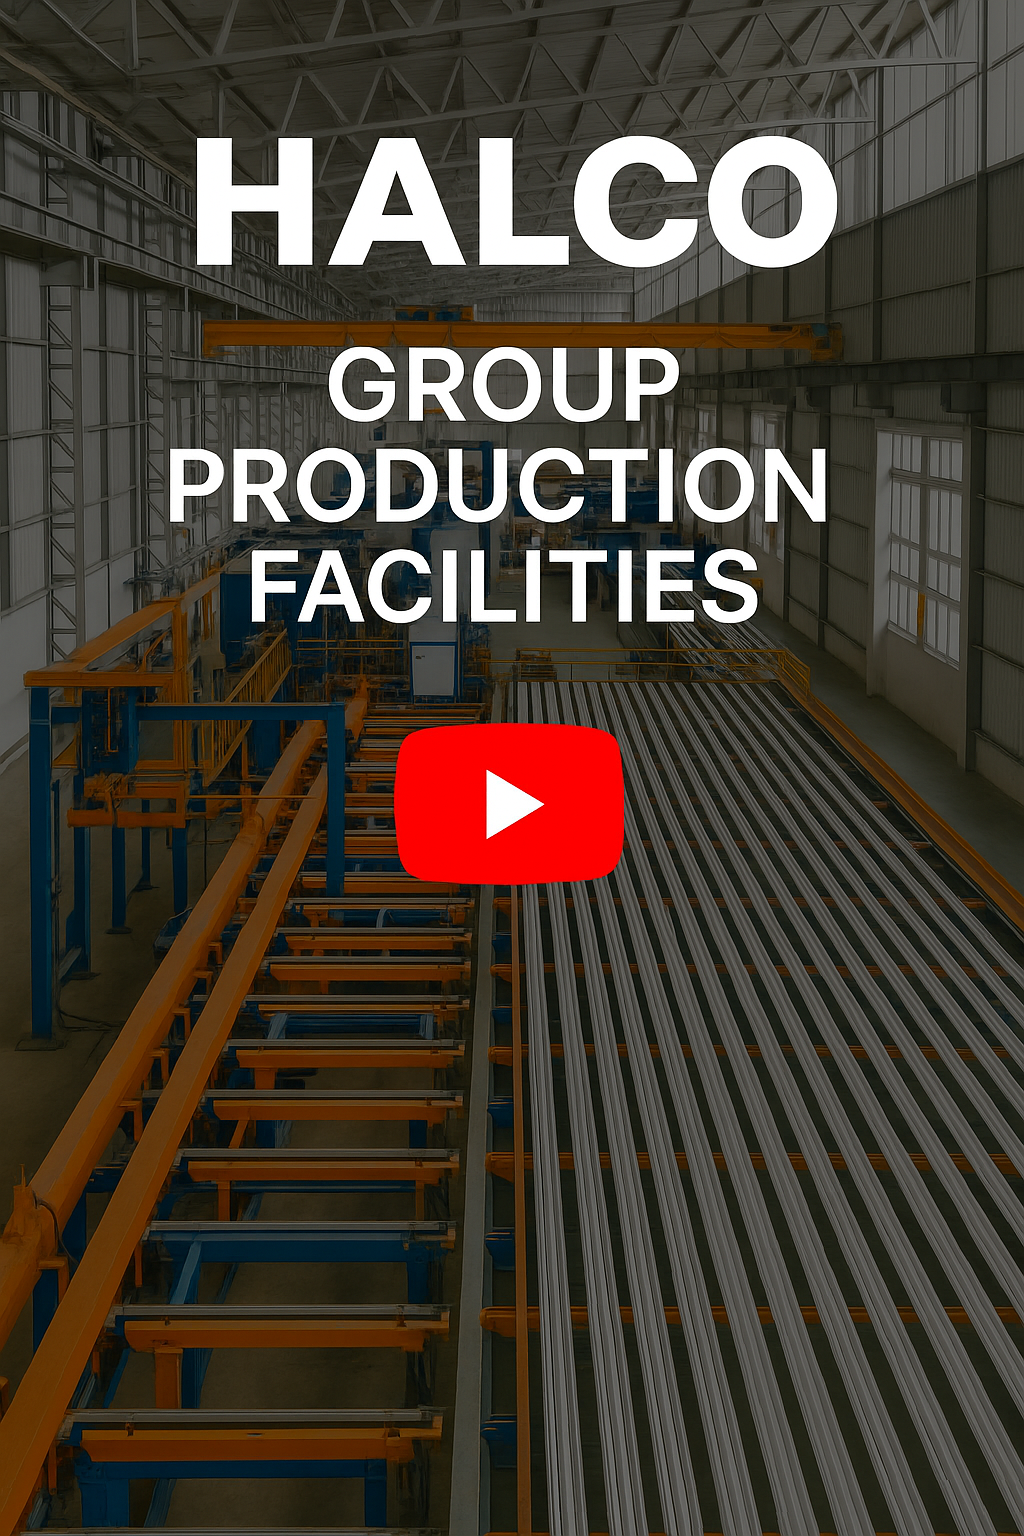
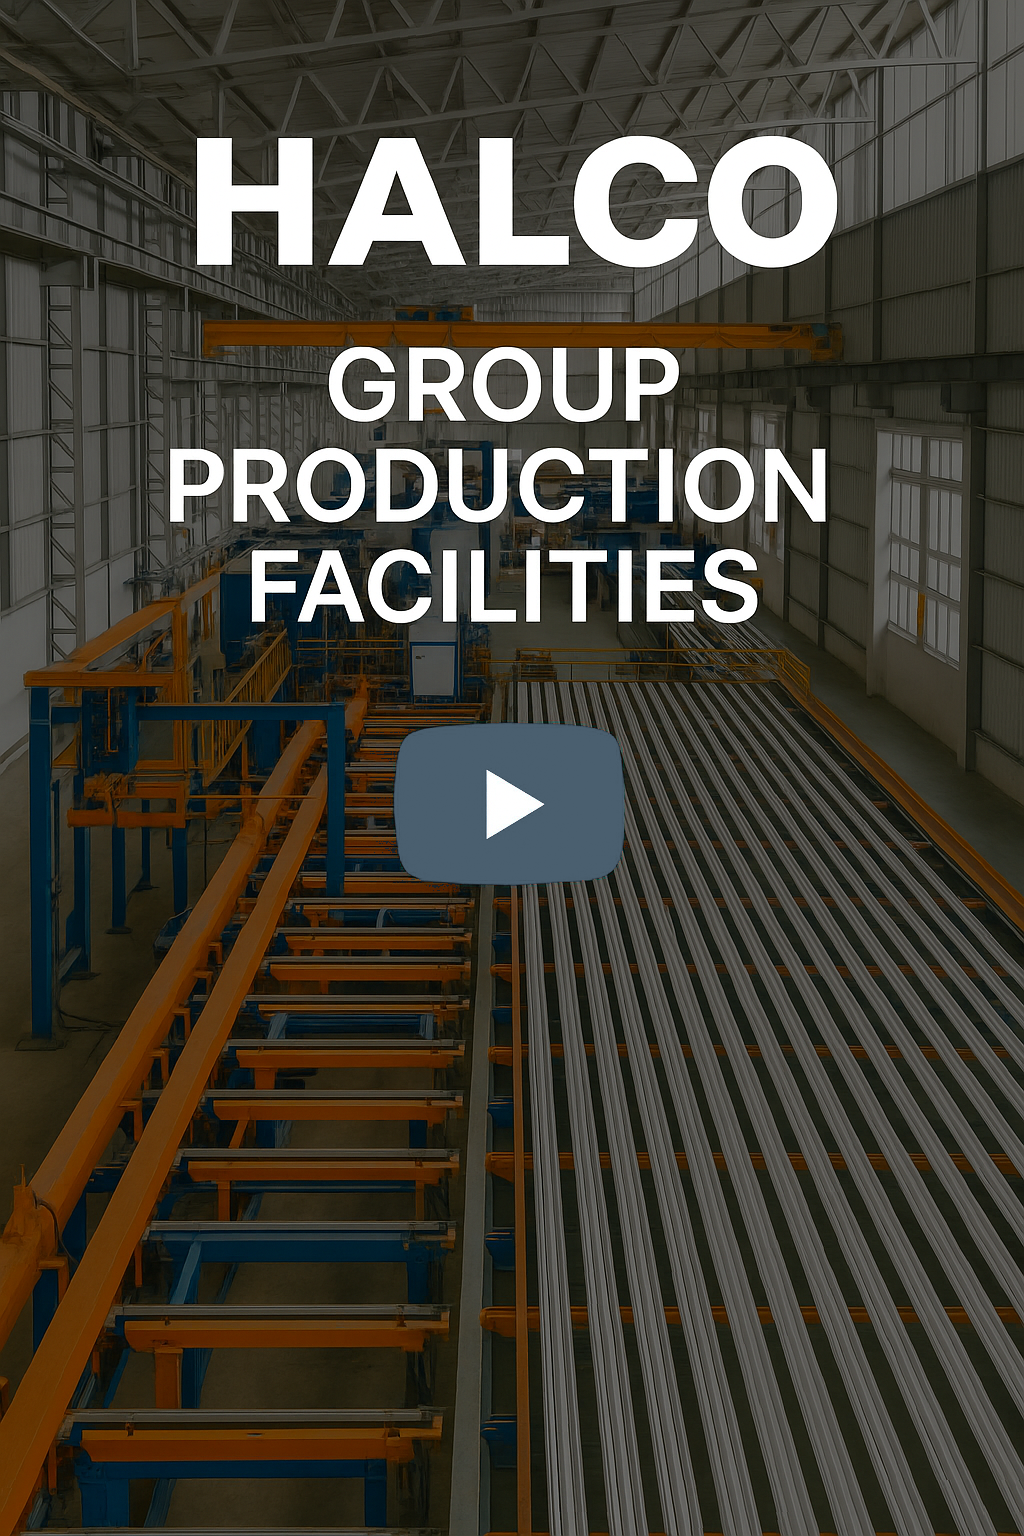
Replace leftover template red with brand grey site-wide
- style.css: hover overlays, button hovers, icon circles, review stars,
  header call button and the gradient count text now use the brand grey
  #4A5F6F (darker #3A4B58 / lighter #6B8293 for hover and accents)
- Recolour red UI images to brand grey: favicons, home icon, dropdown
  arrow, button corner shapes, arrow, page preloader animation
- Facilities video thumbnail: play button recoloured to brand grey
- Product pages: correct a "red arrow" CSS comment

Left as is: red borders on invalid form fields (error state), the
Pinterest / Google+ share-button colours, and third-party library CSS.

Claude-Session: https://claude.ai/code/session_015zbwwhrwoFCMTKFhuYiras

Changed region(s): [[0.375, 0.4688, 0.625, 0.5938]]

diff --git a/css/style.css b/css/style.css
@@ -761,7 +761,7 @@ select:focus {
     left: 0;
     width: 100%;
     height: 100%;
-    background-color: rgba(233, 33, 48, 0.85);
+    background-color: rgba(74, 95, 111, 0.85);
     transition: all 700ms ease 100ms;
     opacity: 0;
     z-index: 2;
@@ -2515,7 +2515,7 @@ select:focus {
 }
 .slogan-area .button a:hover{
     color: #ffffff;
-    background: #e11f2c;
+    background: #4A5F6F;
 }
 
 
@@ -4262,12 +4262,12 @@ select:focus {
     font-size: 48px;
     line-height: 40px;
     font-weight: 500;
-    background: -moz-linear-gradient(45deg, rgba(65,94,82,1) 0%, rgba(255,0,0,1) 1%, rgba(77,0,0,1) 100%); /* ff3.6+ */
-    background: -webkit-gradient(linear, left bottom, right top, color-stop(0%, rgba(65,94,82,1)), color-stop(1%, rgba(255,0,0,1)), color-stop(100%, rgba(77,0,0,1))); /* safari4+,chrome */
-    background: -webkit-linear-gradient(45deg, rgba(65,94,82,1) 0%, rgba(255,0,0,1) 1%, rgba(77,0,0,1) 100%); /* safari5.1+,chrome10+ */
-    background: -o-linear-gradient(45deg, rgba(65,94,82,1) 0%, rgba(255,0,0,1) 1%, rgba(77,0,0,1) 100%); /* opera 11.10+ */
-    background: -ms-linear-gradient(45deg, rgba(65,94,82,1) 0%, rgba(255,0,0,1) 1%, rgba(77,0,0,1) 100%); /* ie10+ */
-    background: linear-gradient(45deg, rgba(65,94,82,1) 0%, rgba(255,0,0,1) 1%, rgba(77,0,0,1) 100%); /* w3c */
+    background: -moz-linear-gradient(45deg, rgba(65,94,82,1) 0%, rgba(74,95,111,1) 1%, rgba(44,60,72,1) 100%); /* ff3.6+ */
+    background: -webkit-gradient(linear, left bottom, right top, color-stop(0%, rgba(65,94,82,1)), color-stop(1%, rgba(74,95,111,1)), color-stop(100%, rgba(44,60,72,1))); /* safari4+,chrome */
+    background: -webkit-linear-gradient(45deg, rgba(65,94,82,1) 0%, rgba(74,95,111,1) 1%, rgba(44,60,72,1) 100%); /* safari5.1+,chrome10+ */
+    background: -o-linear-gradient(45deg, rgba(65,94,82,1) 0%, rgba(74,95,111,1) 1%, rgba(44,60,72,1) 100%); /* opera 11.10+ */
+    background: -ms-linear-gradient(45deg, rgba(65,94,82,1) 0%, rgba(74,95,111,1) 1%, rgba(44,60,72,1) 100%); /* ie10+ */
+    background: linear-gradient(45deg, rgba(65,94,82,1) 0%, rgba(74,95,111,1) 1%, rgba(44,60,72,1) 100%); /* w3c */
     filter: progid:DXImageTransform.Microsoft.gradient( startColorstr='#4D0000', endColorstr='#415E52',GradientType=1 ); /* ie6-9 */
 
     -webkit-background-clip: text;
@@ -4521,7 +4521,7 @@ select:focus {
     padding: 0 40px 0;
 }
 .why-choose-title .button a:hover{
-    background: #d51723;
+    background: #3A4B58;
 }
 
 .why-choose-content{
@@ -4565,7 +4565,7 @@ select:focus {
     width: 100%;
     height: 100%;
     content: "";
-    background: #ed4d58;
+    background: #6B8293;
     border-radius: 50%;
     z-index: -1;
 }
@@ -5817,7 +5817,7 @@ box-shadow: 0px -4px 10px 3px #e8e8e8;
     bottom: 0;
     right: 30px;
     height: 1px;
-    background: #ea5f68;
+    background: #6B8293;
     content: "";
 }
 .header-call-button .inner{
@@ -9426,7 +9426,7 @@ li .single-footer-contact-info .text p span{
     width: 50%;
     height: 100%;
     content: '';
-    background: linear-gradient(to right, rgba(233,33,48, 0) 0%, rgba(233,33,48, .3) 100%);
+    background: linear-gradient(to right, rgba(74, 95, 111, 0) 0%, rgba(74, 95, 111, .3) 100%);
     transform: skewX(-25deg);
     z-index: 2;
 }
@@ -9853,7 +9853,7 @@ li .single-footer-contact-info .text p span{
     transform: scale(1.2, 1.2);    
 }
 .single-sidebar .recent-post li .img-holder .overlay-style-one{
-    background: rgba(233, 33, 48, 0.90);
+    background: rgba(74, 95, 111, 0.90);
 }
 .single-sidebar .recent-post li .img-holder .overlay-style-one .box .content a{
     display: inline-block;
@@ -11195,7 +11195,7 @@ li .single-footer-contact-info .text p span{
     transform: scale(1.2, 1.2);    
 }
 .shop-sidebar-wrapper .products-post li .img-holder .overlay-style-one{
-    background: rgba(233, 33, 48, 0.90);
+    background: rgba(74, 95, 111, 0.90);
 }
 .shop-sidebar-wrapper .products-post li .img-holder .overlay-style-one .box .content a{
     display: inline-block;
@@ -11288,7 +11288,7 @@ li .single-footer-contact-info .text p span{
 .single-shop-content .content-box .review-box ul {}
 .single-shop-content .content-box .review-box ul li {}
 .single-shop-content .content-box .review-box ul li i {
-    color: #f13729;
+    color: #4A5F6F;
     font-size: 16px;
 }
 .single-shop-content .content-box .text {
@@ -12888,7 +12888,7 @@ li .single-footer-contact-info .text p span{
 }
 .job-career-brochures-box .overlay-content .innner .box a:hover{
     color: #ffffff;
-    background: #f13729;
+    background: #4A5F6F;
 }
 
 

diff --git a/alu-360-door.html b/alu-360-door.html
@@ -84,7 +84,7 @@
 }
 
 .feature-list i {
-    color: #4A5F6F; /* red arrow */
+    color: #4A5F6F; /* brand arrow */
     font-size: 14px;
     margin-top: 4px;
 }

diff --git a/alu-bi-fold-interior-smart.html b/alu-bi-fold-interior-smart.html
@@ -84,7 +84,7 @@
 }
 
 .feature-list i {
-    color: #4A5F6F; /* red arrow */
+    color: #4A5F6F; /* brand arrow */
     font-size: 14px;
     margin-top: 4px;
 }

diff --git a/alu-bi-fold-interior.html b/alu-bi-fold-interior.html
@@ -84,7 +84,7 @@
 }
 
 .feature-list i {
-    color: #4A5F6F; /* red arrow */
+    color: #4A5F6F; /* brand arrow */
     font-size: 14px;
     margin-top: 4px;
 }

diff --git a/alu-bi-fold-plus.html b/alu-bi-fold-plus.html
@@ -84,7 +84,7 @@
 }
 
 .feature-list i {
-    color: #4A5F6F; /* red arrow */
+    color: #4A5F6F; /* brand arrow */
     font-size: 14px;
     margin-top: 4px;
 }

diff --git a/alu-casement-door.html b/alu-casement-door.html
@@ -84,7 +84,7 @@
 }
 
 .feature-list i {
-    color: #4A5F6F; /* red arrow */
+    color: #4A5F6F; /* brand arrow */
     font-size: 14px;
     margin-top: 4px;
 }

diff --git a/alu-casement-plus-door.html b/alu-casement-plus-door.html
@@ -84,7 +84,7 @@
 }
 
 .feature-list i {
-    color: #4A5F6F; /* red arrow */
+    color: #4A5F6F; /* brand arrow */
     font-size: 14px;
     margin-top: 4px;
 }

diff --git a/alu-casement-plus-window.html b/alu-casement-plus-window.html
@@ -84,7 +84,7 @@
 }
 
 .feature-list i {
-    color: #4A5F6F; /* red arrow */
+    color: #4A5F6F; /* brand arrow */
     font-size: 14px;
     margin-top: 4px;
 }

diff --git a/alu-casement-smart-door.html b/alu-casement-smart-door.html
@@ -84,7 +84,7 @@
 }
 
 .feature-list i {
-    color: #4A5F6F; /* red arrow */
+    color: #4A5F6F; /* brand arrow */
     font-size: 14px;
     margin-top: 4px;
 }

diff --git a/alu-casement-smart-window.html b/alu-casement-smart-window.html
@@ -84,7 +84,7 @@
 }
 
 .feature-list i {
-    color: #4A5F6F; /* red arrow */
+    color: #4A5F6F; /* brand arrow */
     font-size: 14px;
     margin-top: 4px;
 }

diff --git a/alu-casement-window.html b/alu-casement-window.html
@@ -84,7 +84,7 @@
 }
 
 .feature-list i {
-    color: #4A5F6F; /* red arrow */
+    color: #4A5F6F; /* brand arrow */
     font-size: 14px;
     margin-top: 4px;
 }

diff --git a/alu-elliptical-louver.html b/alu-elliptical-louver.html
@@ -84,7 +84,7 @@
 }
 
 .feature-list i {
-    color: #4A5F6F; /* red arrow */
+    color: #4A5F6F; /* brand arrow */
     font-size: 14px;
     margin-top: 4px;
 }
